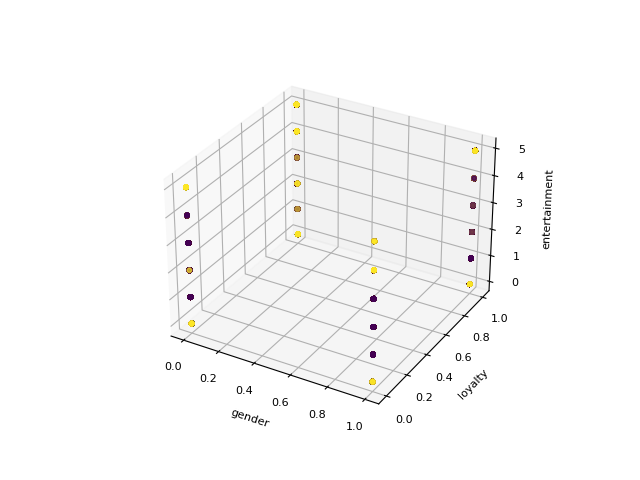
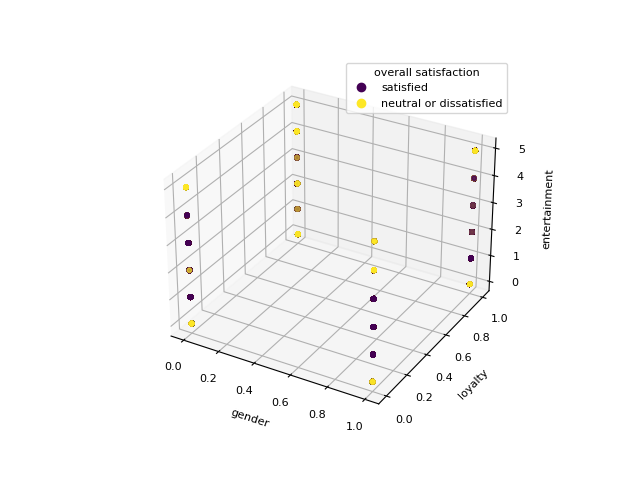
muitos dados e plots
TODO: find best algorithm

Changed region(s): [[0.5312, 0.125, 0.7812, 0.25]]

diff --git a/ML/ml.py b/ML/ml.py
@@ -6,6 +6,8 @@ __author__ = "Bruno Faria & Dylan Perdigão"
 __date__ = "May 2022"
 
 
+from cProfile import label
+import time
 import matplotlib.pyplot as plt
 import numpy as np
 from os.path import exists
@@ -13,10 +15,16 @@ import pandas as pd
 import psycopg2
 import seaborn as sns
 from sklearn.decomposition import PCA
+from sklearn.discriminant_analysis import LinearDiscriminantAnalysis
 from sklearn.ensemble import ExtraTreesClassifier
 from sklearn.feature_selection import SelectKBest, chi2, RFE
 from sklearn.linear_model import LogisticRegression
+from sklearn.model_selection import KFold, cross_val_score, train_test_split
+from sklearn.naive_bayes import GaussianNB
+from sklearn.neighbors import KNeighborsClassifier
 from sklearn.preprocessing import StandardScaler
+from sklearn.svm import SVC
+from sklearn.tree import DecisionTreeClassifier
 
 
 def connect_to_db():
@@ -34,7 +42,6 @@ def connect_to_db():
 		port="5432",
 		database="postgres"
 	)
-
 
 def read_data():
     """
@@ -183,39 +190,47 @@ def visualize_data(df, img_path):
 
     ## Density Plots
     df.plot(kind='density', subplots=True, layout=(5,5), sharex=False, sharey=False)
-    plt.savefig(img_path+"/data_visualization/density.png")
     #plt.show()
+    plt.savefig(img_path+"/data_visualization/density.png")
 
-
-def plot_3d_scatter(x,y, axis_labels, title, img_path):
+def plot_3d_scatter(x,y, title, img_path):
     """
     Plots and saves a 3d scatter plot
 
     Parameters:
         x: the 3 features array to plot
         y: the labels
-        axis_labels: the axis labels [x_label, y_label, z_label]
         title: the title
         img_path: the path to the images folder
     """
 
+    axis_labels = x.columns
+    x=x.values
+
     fig = plt.figure()
     ax = fig.add_subplot(111, projection='3d')
-    ax.scatter(x[:,0],x[:,1],x[:,2], c=y, s = 10)
+    sc= ax.scatter(x[:,0],x[:,1],x[:,2], c=y, s = 10)
     ax.set_xlabel(axis_labels[0])
     ax.set_ylabel(axis_labels[1])
     ax.set_zlabel(axis_labels[2])
-    plt.savefig(img_path+"/feature_selection/"+title+".png")
+
+    plt.legend(handles=sc.legend_elements()[0], 
+           labels=['satisfied', 'neutral or dissatisfied'],
+           title="overall satisfaction")
+
+
     #plt.show()
+    plt.savefig(img_path+"/feature_selection/"+title+".png")
 
-
-
-def feature_selection(df, img_path):
+def feature_selection(X, Y, N, img_path = None):
     """
     Performs feature selection
 
     Parameters:
-        df: a dataframe with the data
+        X: the features array
+        Y: the labels
+        N: the number of features to select
+        img_path: the path to the images folder
 
     Returns:
         us: a dataframe with the selected features from Univariate Selection
@@ -224,82 +239,156 @@ def feature_selection(df, img_path):
         fi: a dataframe with the selected features from Feature Importance
     """
 
-    print("\n========== Feature Selection ==========")
+    print("\n======================================== Feature Selection ========================================")
 
-    Y=df['overall_satisfaction']
-    X=df.drop(['overall_satisfaction'], axis=1)
     col_names = X.columns.tolist()
 
     ## Univariate Statistical Tests (Chi-squared for classification)
-    test= SelectKBest(score_func=chi2, k=3)
+    print("\n==================== \tUnivariate Statistical Tests\t ====================")
+
+    test= SelectKBest(score_func=chi2, k=N)
     fit = test.fit(X, Y)
     #print(fit)
 
     # sumarize scores
     #print(fit.scores_)
-    us = fit.transform(X)
+    #us = fit.transform(X)
+   
+    selected_cols = [col_names[i] for i in fit.scores_.argsort()[-N:]]
+    us = X[selected_cols]
 
-    selected_cols = [col_names[i] for i in fit.scores_.argsort()[-3:]]
-
-    plot_3d_scatter(us,Y, selected_cols, "univariate_selection", img_path)
+    if img_path is not None:
+        plot_3d_scatter(us,Y, "univariate_selection", img_path)
 
     print("Univariate Selection best Features:\t", selected_cols)
+    print(us.head())
     # proof that they are the same
     #print(np.unique(us == X[selected_cols].values))
 
+
     ## Recursive Feature Elimination (RFE)
+    print("\n==================== \tRecursive Feature Elimination\t ====================")
     model = LogisticRegression(solver='lbfgs', max_iter=3000)
     #lbfgs solver - uses the Limited Memory Broyden-Fletcher-Goldfarb-Shanno (BFGS) algorithm
 
-    rfe = RFE(model, n_features_to_select=3)
+    rfe = RFE(model, n_features_to_select=N)
     fit = rfe.fit(X, Y)
 
-    rfe = fit.transform(X)
+    #rfe = fit.transform(X)
 
     selected_cols = [col_names[i] for i in range(len(col_names)) if fit.support_[i]]
+    rfe = X[selected_cols]
 
-    plot_3d_scatter(rfe,Y, selected_cols, "rfe", img_path)
+    if img_path is not None:
+        plot_3d_scatter(rfe,Y, "rfe", img_path)
 
     print("RFE best Features:\t\t\t", selected_cols)
+    print(rfe.head())
 
 
     ## Principal Component Analysis
+    print("\n==================== \tPrincipal Component Analysis\t ====================")
 
     #scale
     X_N = StandardScaler().fit_transform(X)
 
-    pca_f = PCA(n_components=3)
-    pca = pca_f.fit_transform(X_N)
+    pca_f = PCA(n_components=N)
+    pca_np = pca_f.fit_transform(X_N)
 
     # summarize components
     #print("Explained Variance: %s" % pca_f.explained_variance_ratio_)
 
-    plot_3d_scatter(pca,Y, ['PC1', 'PC2', 'PC3'], "pca", img_path)
+    cols = ['PC '+str(i+1) for i in range(N)]
+    pca = pd.DataFrame(pca_np, columns=cols)
+    print(pca.head())
+
+    if img_path is not None:
+        plot_3d_scatter(pca,Y, "pca", img_path)
 
     #plt.plot(pca_f.explained_variance_ratio_, 'bd-')
     #plt.show()
 
     
     ## Feature Importance
+    print("\n==================== \tFeature Importance\t ====================")
+
     model = ExtraTreesClassifier(n_estimators=100, random_state=0)
     model.fit(X, Y)
 
-    idx = model.feature_importances_.argsort()[-3:]
+    idx = model.feature_importances_.argsort()[-N:]
     selected_cols = [col_names[i] for i in idx]
 
-    fi = X[selected_cols].values
+    fi = X[selected_cols]
 
-    plot_3d_scatter(fi,Y, selected_cols, "feature_importance", img_path)
+    if img_path is not None:
+        plot_3d_scatter(fi,Y, "feature_importance", img_path)
 
     print("Feature Importance best Features:\t", selected_cols)
+    print(fi.head())
 
     return [us, rfe, pca, fi]
+
+def classify(X,Y, seed, data_path, red_name):
+    """
+    Performs classificationwith diferent models
+        
+    Parameters:
+        X: the features
+        Y: the labels
+        seed: the seed for the random state
+        data_path: the path to the data folder
+        red_name: the name of the reduceding algorithm
+    """
+    
+    # split into train and test
+    X_train, X_test, Y_train, Y_test = train_test_split(X, Y, test_size=0.2, random_state=0)
+
+    print("\n===================== \t", red_name, "\t =====================")
+    
+    models = []
+    models.append(('LR', LogisticRegression(solver='lbfgs', max_iter=3000, multi_class='auto')))
+    models.append(('LDA', LinearDiscriminantAnalysis()))
+    models.append(('KNN', KNeighborsClassifier()))
+    models.append(('NB', GaussianNB()))
+    models.append(('CART', DecisionTreeClassifier()))
+    models.append(('SVM', SVC(gamma='scale')))
+
+    # evaluate each model in turn
+    results = []
+    names = []
+    for name, model in models:
+        kfold = KFold(n_splits=10, random_state=seed, shuffle=True)
+    
+        begin = time.time()
+        cv_results = cross_val_score(model, X_train, Y_train, cv=kfold, scoring='accuracy')
+        after = time.time()
+
+        results.append(cv_results)
+        names.append(name)
+
+        line = "%s,%f,%f,%d" % (name,cv_results.mean()*100, cv_results.std()*100,after - begin)
+        #write line to file
+        with open(data_path+"/"+red_name+".csv", "a") as f:
+            f.write(line+"\n")
+
+        print("%s: \t%f (%f)" % (name, cv_results.mean()*100, cv_results.std()*100))
+
+    # boxplot algorithm comparison
+    fig = plt.figure()
+    ax = fig.add_subplot(111)
+    plt.boxplot(results)
+    ax.set_xticklabels(names)
+    
+    plt.savefig(data_path+"/"+red_name+".png")
+    #plt.show()
 
 
 def main():
     pd.set_option('precision', 3)
     plt.rcParams.update({'font.size': 8})
     IMG_PATH = "ML/img"
+    DATA_PATH = "ML/data"
+    SEED = 123456789
 
     data = read_data()
     #print(data.shape)
@@ -310,8 +399,21 @@ def main():
     #TODO: UNCOMMENT
     #visualize_data(data,IMG_PATH)
 
+    Y=data['overall_satisfaction']
+    X=data.drop(['overall_satisfaction'], axis=1)
 
-    [us, rfe, pca, fi] = feature_selection(data, IMG_PATH)
+    [us3, rfe3, pca3, fi3] = feature_selection(X,Y, 3, IMG_PATH)
+    [us10, rfe10, pca10, fi10] = feature_selection(X,Y, 10)
+
+    print("\n======================================== CLASSIFICATION ========================================")
+    for X,red_name in zip([X, us3, rfe3, pca3, fi3, us10, rfe10, pca10, fi10], ['WHOLE','US_3', 'RFE_3', 'PCA_3', 'FI_3', 'US_10', 'RFE_10', 'PCA_10', 'FI_10']):
+        #create file for each algorithm with header
+        with open(DATA_PATH+"/"+red_name+".csv", "w") as f:
+            f.write("model,mean,std,train_time\n")
+
+        classify(X,Y, SEED, DATA_PATH, red_name)
+        
+
 
 
 
